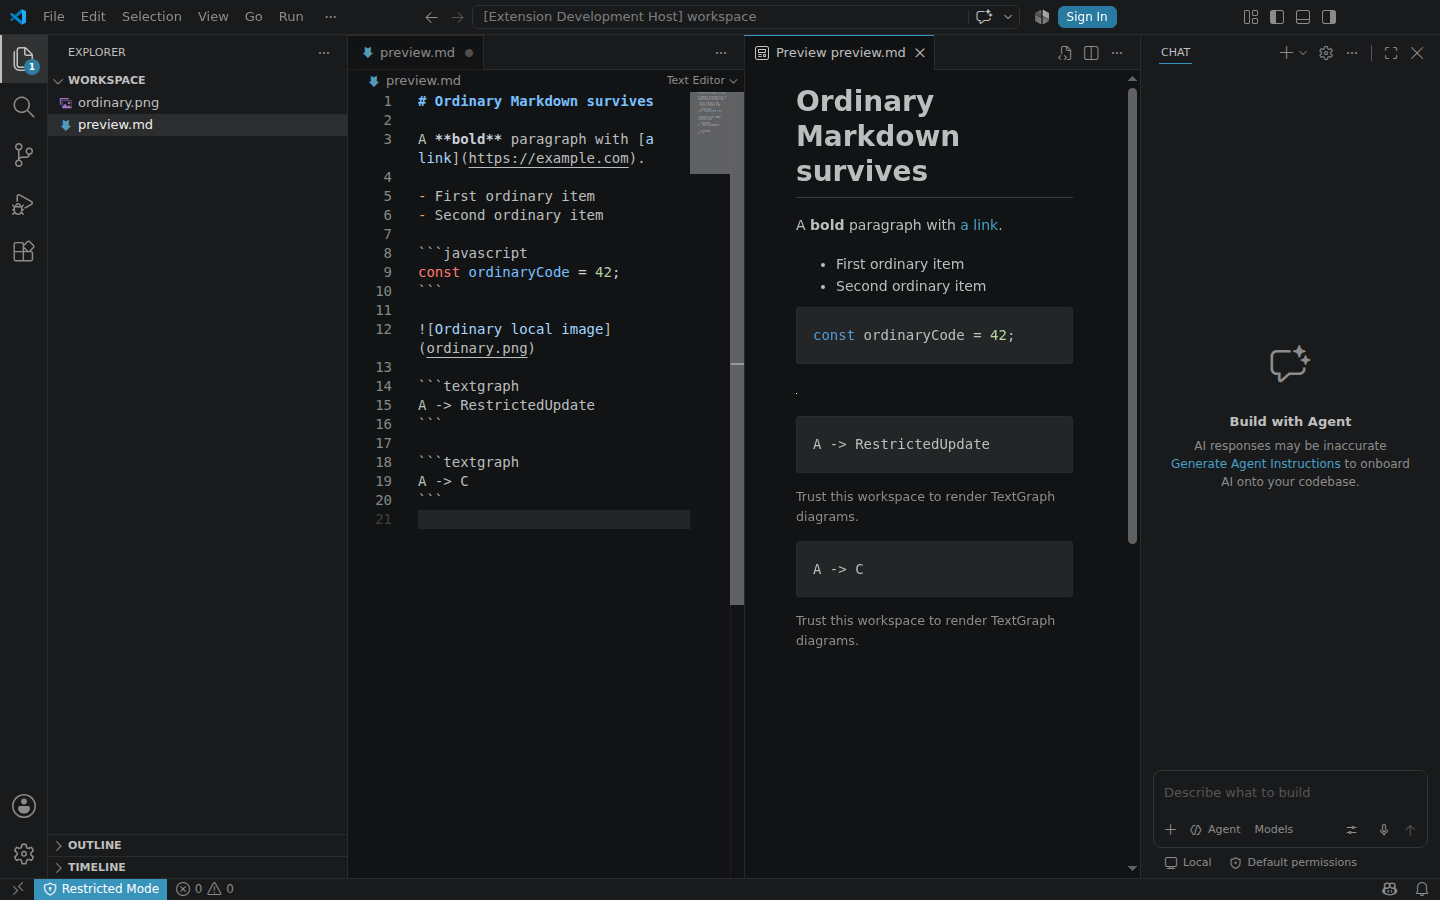
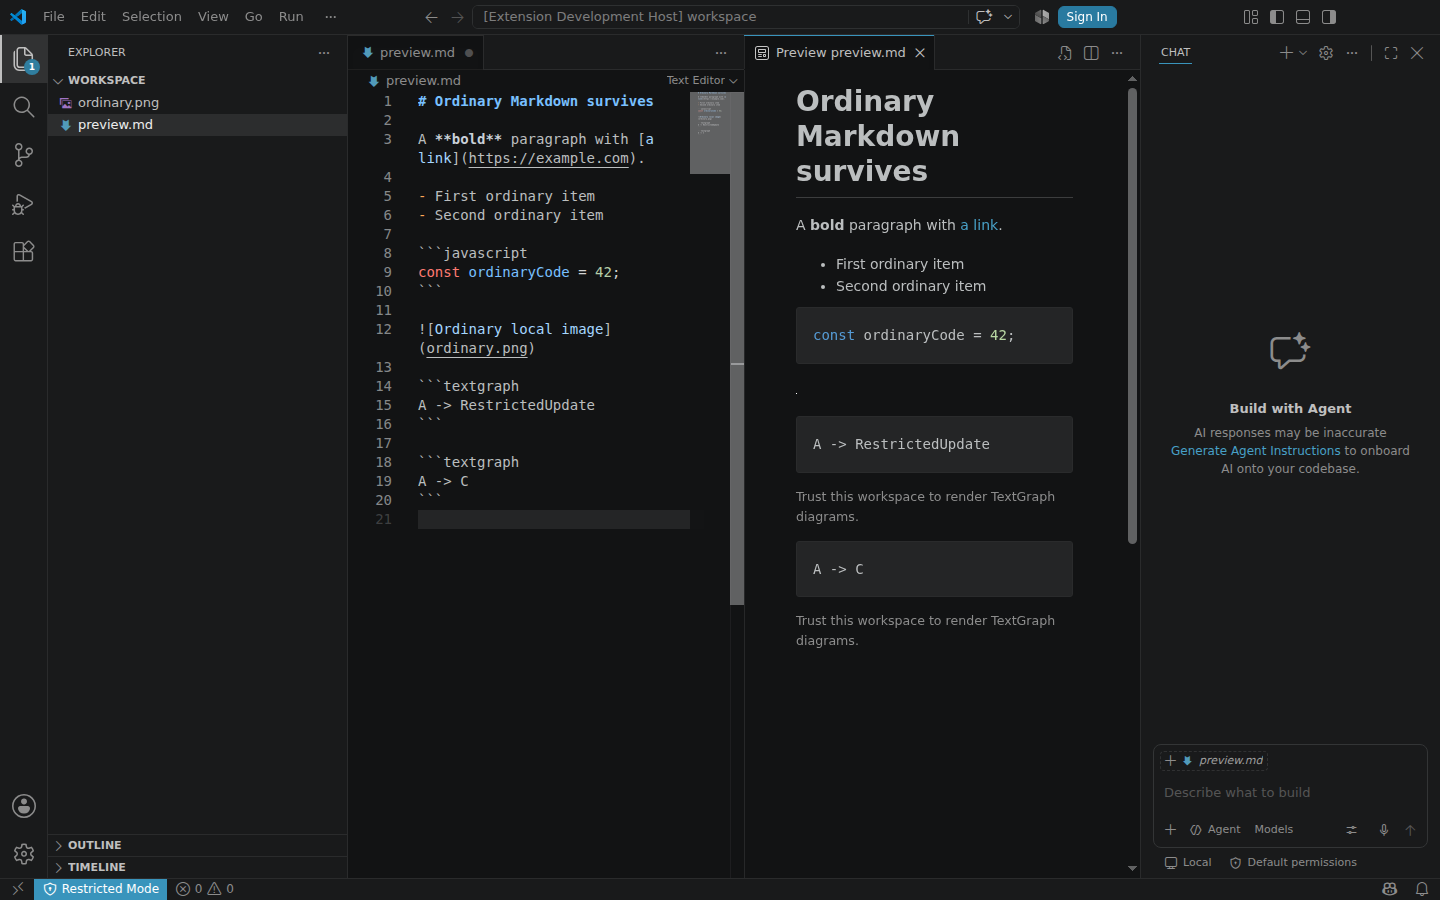
Prepare verified Marketplace metadata and record configured publisher access

Changed region(s): [[0.8125, 0.3733, 1.0, 0.56], [0.8125, 0.84, 0.875, 0.8711]]

diff --git a/vscode/verification/2026-09-13/README.md b/vscode/verification/2026-09-13/README.md
@@ -29,8 +29,16 @@ Causal boundary: unchanged Markdown fence content reaches the public SDK, where 
 
 Both installed Electron hosts were additionally tested with `A -> {}`. Here the SDK reaches a Mono lock-free allocator assertion before the deadline and returns `RUNTIME_FAILED`. The extension surfaces that operational failure, terminates the Worker, preserves the independent diagram, and successfully renders the next valid edit in a replacement Worker. This differs from the standalone timeout path but confirms both actual host versions survive and recover. An initial strict timeout-only assertion was corrected to allow the positively observed native failure; production behavior was unchanged. One earlier WSLg attempt lost the preview to unrelated window interaction; the final stable test used an isolated display.
 
-## Marketplace status
+## Marketplace status before credential setup
 
 Existing publisher `drawmotive` is used by the public editor extension. No local VSCE PAT is configured. The Azure CLI identity is authenticated but `npx vsce verify-pat --azure-credential drawmotive` fails with Access Denied on publisher permission lookup. The separate vscode-drawmotive repository has a VSCE_PAT secret, which GitHub does not expose for reading or reuse; markdown-textgraph has no repository/environment secret. Organization secret visibility is unavailable.
 
 Missing publication condition: a Marketplace Manage credential authorized for publisher drawmotive (local VSCE_PAT or this repository’s Actions secret), or the appropriate publisher role for the Azure identity. No secret value was logged. The tested VSIX is installable; Marketplace publication is not complete. The release workflow and instructions are ready on the task branch. No push, merge, remote release, or branch cleanup was performed.
+
+## Credential setup and rebased source boundary
+
+The owner subsequently configured a PAT; `npx vsce verify-pat drawmotive` succeeded. Credentials no longer block publishing. Marketplace publication has not run.
+
+The candidate was repacked after removing an image URL that vsce rewrote to the wrong public repository directory and links to not-yet-pushed extension documentation. Only README and homepage metadata changed in the archive; production JS, Worker, SDK assets, CSS and icon remain byte-identical. All 11 tests and installed-VSIX trusted/untrusted checks on both 1.101.0 and 1.137.0 passed again using isolated Xvfb. SHA256SUMS and the JSON evidence refer to this repacked candidate.
+
+The superproject main now contains parser/group fixes, including 06cd98ed and subsequent inline-group work through b6fbbac0. The extension still bundles public npm `@drawmotive/textgraph@0.1.0-alpha.1`, which remains the registry latest/alpha. Rebasing private sources does not rebuild or upgrade that immutable public artifact. The known-SDK-failure checks remain applicable until a fixed SDK is published and the dependency is explicitly updated. No local SDK substitution or private native build is performed in this extension session.

diff --git a/vscode/README.md b/vscode/README.md
@@ -12,8 +12,6 @@ Start -> Review -> Done
 
 Open a Markdown file, then run **Markdown: Open Preview to the Side** (`Ctrl+K V`, or `Cmd+K V` on macOS). The first diagram takes a few seconds to initialize.
 
-![TextGraph diagram preview](media/example.png)
-
 ## Requirements
 
 - VS Code **1.101.0 or newer**, desktop or a Node-based remote Extension Host. VS Code 1.101 introduced Node 22 in both desktop and remote hosts. A browser-only host such as vscode.dev without a remote host is unsupported.
@@ -54,4 +52,4 @@ npm run test:host
 
 The host test downloads VS Code 1.101.0, installs the actual VSIX into isolated profiles, and tests built-in Markdown Preview through the real Extension Host and webview. Linux CI uses `xvfb-run -a npm run test:host`; a desktop display also works. Set `VSCODE_VERSION=stable` for the current stable host. No C# project is built.
 
-See [release instructions](https://github.com/drawmotive/markdown-textgraph/blob/main/vscode/RELEASE.md) and [the SDK](https://github.com/drawmotive/textgraph).
+See [the project repository](https://github.com/drawmotive/markdown-textgraph) and [the SDK](https://github.com/drawmotive/textgraph).
